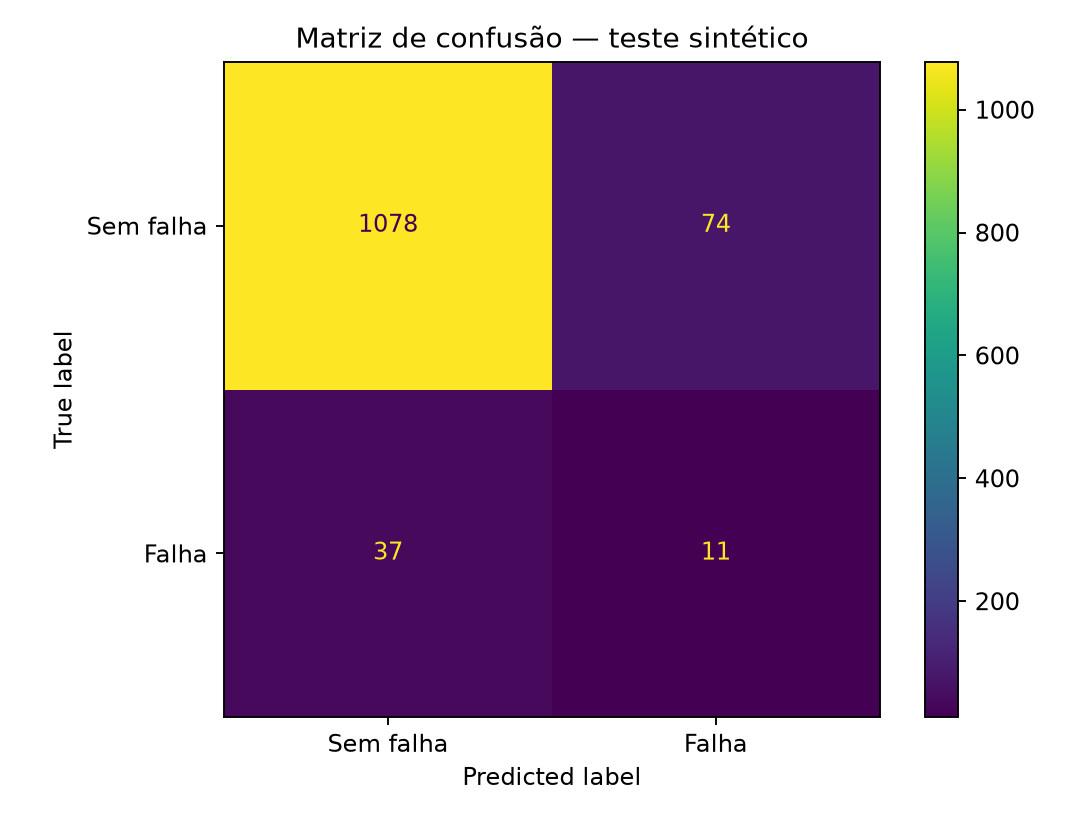
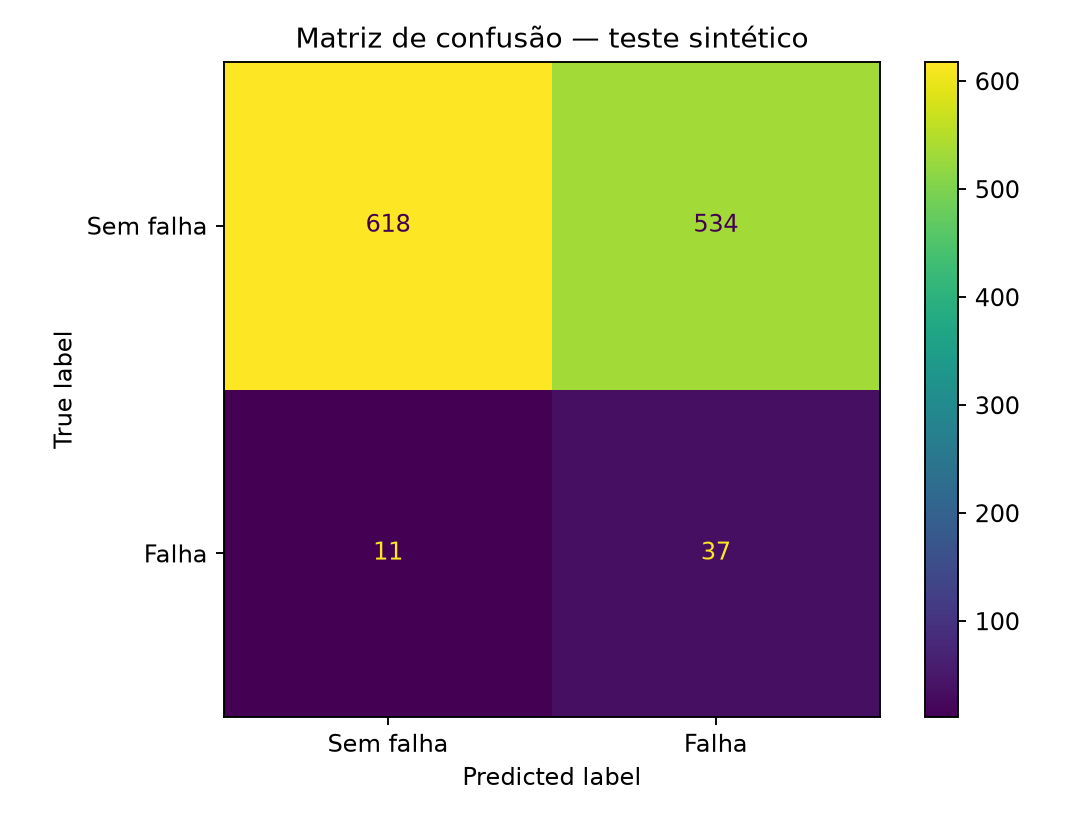
Melhora avaliação de falhas e métricas do dashboard

diff --git a/src/train.py b/src/train.py
@@ -8,7 +8,7 @@ import matplotlib.pyplot as plt
 from sklearn.ensemble import RandomForestClassifier
 from sklearn.metrics import (
     average_precision_score, classification_report, confusion_matrix,
-    ConfusionMatrixDisplay, f1_score, precision_recall_curve, roc_auc_score
+    ConfusionMatrixDisplay, precision_recall_curve, roc_auc_score
 )
 from sklearn.model_selection import train_test_split
 
@@ -23,15 +23,18 @@ FEATURES = [
 ]
 TARGET = "failure"
 
-def choose_threshold(y_true, probabilities):
+TARGET_RECALL = 0.80
+
+def choose_threshold(y_true, probabilities, target_recall=TARGET_RECALL):
     precision, recall, thresholds = precision_recall_curve(y_true, probabilities)
     if len(thresholds) == 0:
         return 0.5
-    # precision/recall têm um elemento a mais que thresholds.
-    f1_values = (2 * precision[:-1] * recall[:-1]) / (
-        precision[:-1] + recall[:-1] + 1e-12
-    )
-    return float(thresholds[int(np.nanargmax(f1_values))])
+    # Prioriza encontrar falhas; entre limiares que atingem a meta,
+    # escolhe o mais alto para reduzir alarmes falsos.
+    eligible = np.flatnonzero(recall[:-1] >= target_recall)
+    if len(eligible) == 0:
+        return float(thresholds[int(np.argmax(recall[:-1]))])
+    return float(thresholds[eligible[-1]])
 
 def main():
     if not DATA.exists():
@@ -67,8 +70,19 @@ def main():
         y_test, test_pred, output_dict=True, zero_division=0
     )
     cm = confusion_matrix(y_test, test_pred, labels=[0, 1])
+    tn, fp, fn, tp = (int(value) for value in cm.ravel())
     metrics = {
         "threshold": threshold,
+        "threshold_policy": "Maior limiar que atinge recall alvo na validação",
+        "target_recall": TARGET_RECALL,
+        "validation_recall_at_threshold": float(
+            np.mean((valid_prob >= threshold)[y_valid.to_numpy() == 1])
+        ),
+        "true_negatives": tn,
+        "false_positives": fp,
+        "false_negatives": fn,
+        "true_positives": tp,
+        "test_prevalence": float(y_test.mean()),
         "roc_auc": float(roc_auc_score(y_test, test_prob)),
         "average_precision": float(average_precision_score(y_test, test_prob)),
         "precision_failure": float(report.get("1", {}).get("precision", 0)),
@@ -110,7 +124,9 @@ def main():
     plt.savefig(REPORT_DIR / "feature_importance.png", dpi=170)
     plt.close()
 
+    print(f"Recall alvo na validação: {TARGET_RECALL:.0%}")
     print(f"Limiar selecionado na validação: {threshold:.4f}")
+    print(f"Falhas detectadas/perdidas no teste: {tp}/{fn}; alarmes falsos: {fp}")
     print(f"ROC-AUC (teste): {metrics['roc_auc']:.3f}")
     print(f"Average Precision (teste): {metrics['average_precision']:.3f}")
     print("\nRelatório de classificação:")

diff --git a/src/dashboard.py b/src/dashboard.py
@@ -39,6 +39,7 @@ k1.metric("Registros", f"{len(df):,}")
 k2.metric("Falhas simuladas", f"{int(df.failure.sum()):,}")
 k3.metric("Taxa de falha", f"{df.failure.mean():.2%}")
 k4.metric("Recall no teste", f"{metrics['recall_failure']:.1%}")
+st.caption(f"Base de falhas no teste: {metrics['test_prevalence']:.1%}. Avaliação em amostras sintéticas.")
 
 st.divider()
 st.subheader("Simulador de condição operacional")
@@ -86,6 +87,13 @@ m1.metric("ROC-AUC", f"{metrics['roc_auc']:.3f}")
 m2.metric("Average Precision", f"{metrics['average_precision']:.3f}")
 m3.metric("Precision (falha)", f"{metrics['precision_failure']:.1%}")
 m4.metric("F1-score (falha)", f"{metrics['f1_failure']:.1%}")
+st.caption(
+    f"No teste: {metrics['true_positives']} falhas detectadas, "
+    f"{metrics['false_negatives']} não detectadas e "
+    f"{metrics['false_positives']} alarmes falsos. "
+    f"O limiar foi escolhido na validação para buscar recall de "
+    f"{metrics['target_recall']:.0%}; o teste é uma avaliação separada."
+)
 
 c1, c2 = st.columns(2)
 with c1:

diff --git a/README.md b/README.md
@@ -20,7 +20,8 @@ This solution uses machine learning techniques to analyze industrial operating p
 - Synthetic industrial dataset generation
 - Data analysis and preprocessing
 - Predictive modeling with Random Forest
-- Model evaluation and performance metrics
+- Model evaluation with separate train, validation and test sets
+- Failure-focused threshold selection (target recall) and false-alarm reporting
 - Interactive monitoring dashboard
 - Feature importance analysis
 - Failure risk estimation
@@ -46,6 +47,8 @@ python3 src/generate_data.py
 python3 src/train.py
 python3 -m streamlit run src/dashboard.py
 ```
+
+The alert threshold is selected on the validation set to target 80% recall, choosing the highest threshold that reaches that target. The test set remains separate and reports detected failures, missed failures and false alarms. This target is a demonstration setting, not an operational recommendation. Results from the synthetic data do not establish real-world performance.
 
 ## Project Structure
 
